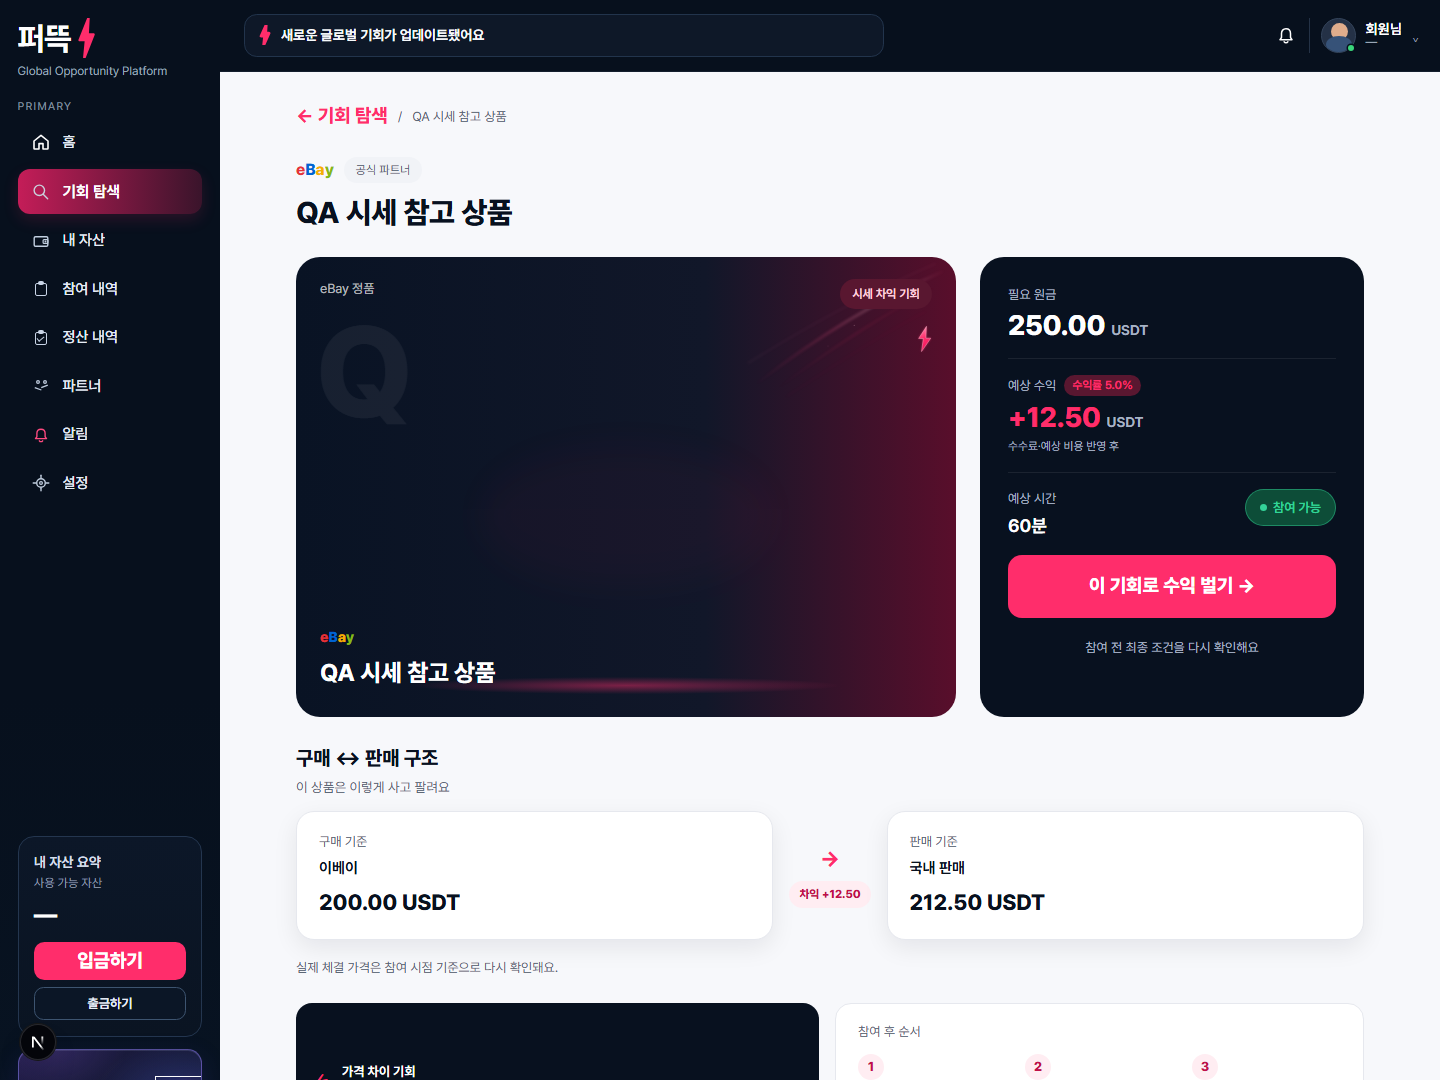
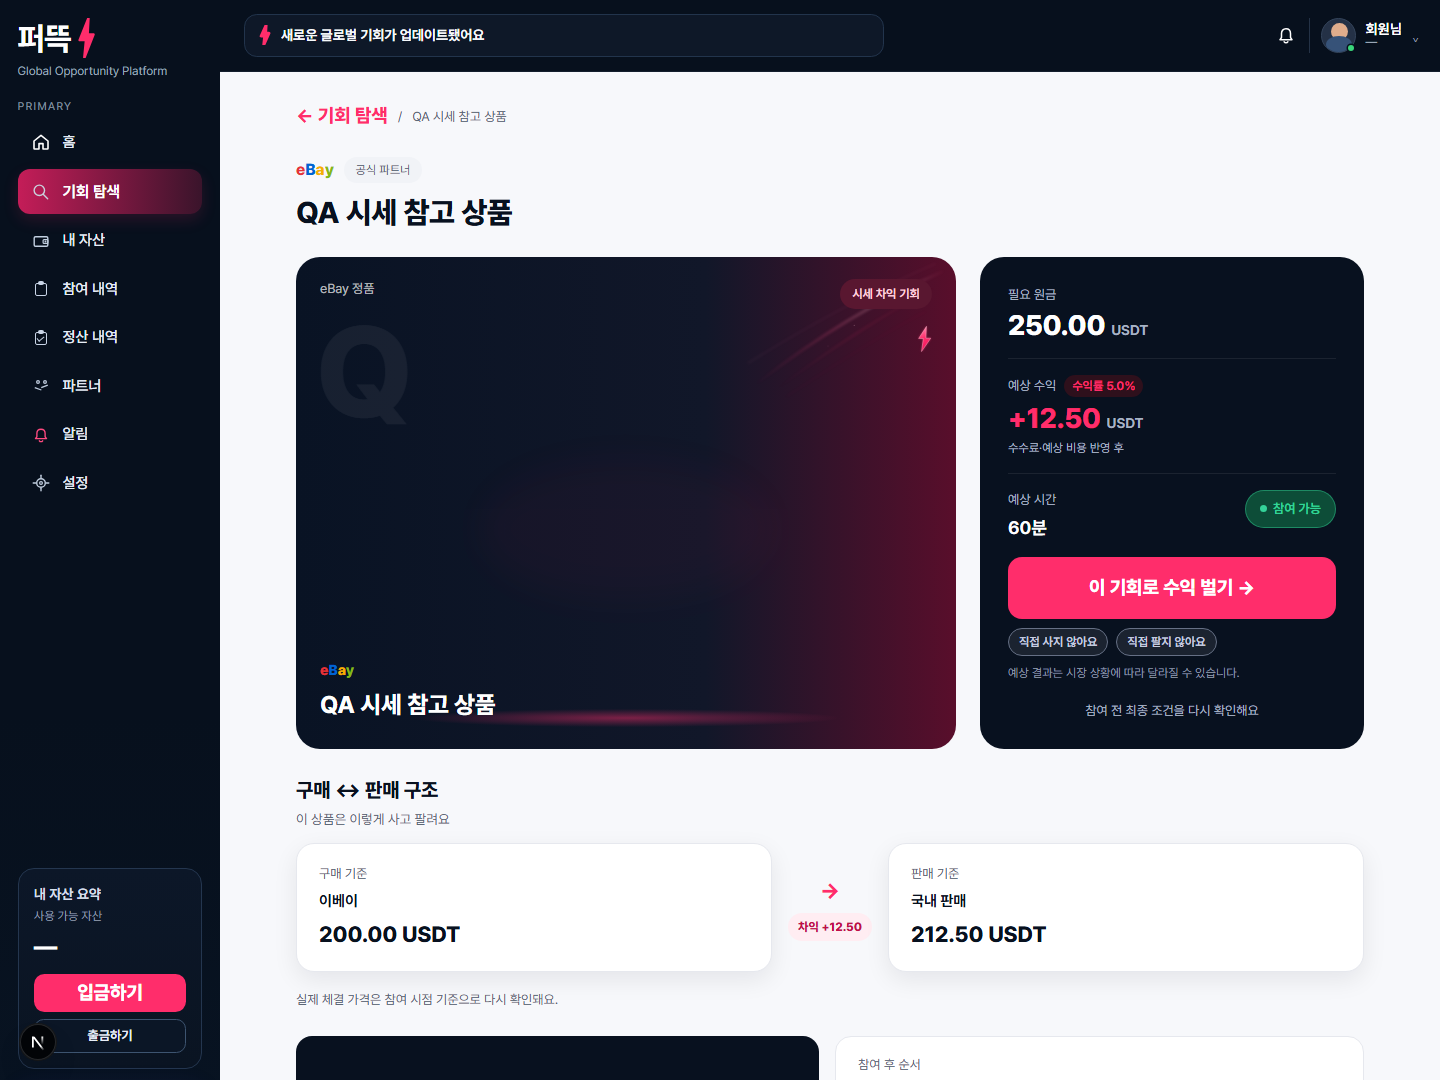
feat(ui): profits detail에 no-buy/no-sell 배지 + 결과 면책 문구 배선 (UI WARN 해소)
Canon wire(packages/ui/canon/surfaces/opportunity-detail.wire.json)가 이미
badgeNoBuy/badgeNoSell/disclaimer 3개 필드를 요구하고 있었고 copy도
packages/ui/copy/ko/execution.ts에 이미 존재했으나, 실제 라이브 컴포넌트
apps/web/app/profits/[id]/OpportunityDetailClient.tsx에는 배선이 빠져
있어 verify:cta-earn-profit이 WARN(tracked gap)으로 보고하던 항목.

변경: CTA 버튼(이 기회로 수익 벌기)이 보이는 조건(kind===ready &&
joinable) 블록 바로 아래에 배지 2개 + 면책 문구 1줄을 최소로 추가.
- apps/web/app/profits/[id]/OpportunityDetailClient.tsx: T.execution.
  badgeNoBuy/badgeNoSell/disclaimerResult 렌더링, desktop/mobile 공용
  ctaNodes() 함수 안이라 두 뷰포트 모두 자동 적용
- spark-dash-room.css/spark-dash-room-mobile.css: 기존 sdr-warn·sdr-err·
  sdrm-cta-warn 패턴과 동일한 최소 스타일만 추가 — 새 디자인 창작 0,
  기존 카드/버튼 레이아웃 무변경
- tooling/e2e/specs/opportunity-detail-closure.spec.cjs: desktop/mobile
  각각 배지 텍스트 + 면책 문구가 실제 렌더링되는지 확인하는 신규
  Playwright 테스트 2건 (기존 8건과 함께 10/10 PASS, 재확인 완료)
- 두 스크린샷(rel-107-room/runtime-ready-{1440,390}.png) 갱신 — 실제
  UI 변경을 반영하는 정당한 갱신(육안 확인 완료)

CRLF 참고: tooling/e2e/specs/opportunity-detail-closure.spec.cjs가 이
Windows 머신의 core.autocrlf 잔재로 로컬 디스크만 CRLF 오염되어 있었음을
발견(git blob은 LF, Phase A globals.css/SVG와 동일 클래스) — 이 파일
1개만 delete+checkout으로 canonical LF 재정규화 후 편집.

Verify: verify:cta-earn-profit PASS(WARN 완전 소멸) ·
opportunity-detail-live-wire.cjs PASS(Playwright 10/10, 1회 flaky
재현 시도 후 안정 재확인 — 실패 원인은 직전 verify:gate:fast 전체 실행
직후의 일시적 시스템 부하, 코드 변경과 무관) · web-lint PASS

diff --git a/apps/web/app/profits/[id]/OpportunityDetailClient.tsx b/apps/web/app/profits/[id]/OpportunityDetailClient.tsx
@@ -343,16 +343,35 @@ export function OpportunityDetailClient({
           </Link>
         ) : null}
         {kind === "ready" && joinable ? (
-          <button
-            type="button"
-            className={primaryClass}
-            data-requires-preflight="true"
-            disabled={busy}
-            onClick={() => void openConfirm()}
-          >
-            {CTA_DETAIL}
-            {isMobile ? null : " →"}
-          </button>
+          <>
+            <button
+              type="button"
+              className={primaryClass}
+              data-requires-preflight="true"
+              disabled={busy}
+              onClick={() => void openConfirm()}
+            >
+              {CTA_DETAIL}
+              {isMobile ? null : " →"}
+            </button>
+            <div
+              className={isMobile ? "sdrm-cta-badges" : "sdr-badges"}
+              data-testid="execution-no-buy-sell-badges"
+            >
+              <span className={isMobile ? "sdrm-cta-badge" : "sdr-badge"}>
+                {T.execution.badgeNoBuy}
+              </span>
+              <span className={isMobile ? "sdrm-cta-badge" : "sdr-badge"}>
+                {T.execution.badgeNoSell}
+              </span>
+            </div>
+            <p
+              className={isMobile ? "sdrm-cta-disclaimer" : "sdr-disclaimer"}
+              data-testid="execution-disclaimer-result"
+            >
+              {T.execution.disclaimerResult}
+            </p>
+          </>
         ) : null}
         {kind === "ready" && funding ? (
           <Link className={primaryClass} href="/wallet/deposit">

diff --git a/apps/web/components/spark-dash-room/spark-dash-room-mobile.css b/apps/web/components/spark-dash-room/spark-dash-room-mobile.css
@@ -606,6 +606,33 @@
   color: #ff8aa0;
 }
 
+.sdrm-cta-badges {
+  display: flex;
+  justify-content: center;
+  gap: 6px;
+  flex-wrap: wrap;
+}
+
+.sdrm-cta-badge {
+  display: inline-flex;
+  align-items: center;
+  padding: 3px 10px;
+  border-radius: 999px;
+  background: rgba(255, 255, 255, 0.08);
+  border: 1px solid #667085;
+  color: #c7cee0;
+  font-size: 11px;
+  font-weight: 600;
+}
+
+.sdrm-cta-disclaimer {
+  margin: 0;
+  text-align: center;
+  font-size: 11px;
+  line-height: 1.4;
+  color: #8b95a7;
+}
+
 .sdrm-cta-actions {
   display: flex;
   flex-direction: column;

diff --git a/apps/web/components/spark-dash-room/spark-dash-room.css b/apps/web/components/spark-dash-room/spark-dash-room.css
@@ -370,6 +370,31 @@
 .sdr-warn { color: #f3c77a; }
 .sdr-err { color: #ff8aa0; }
 
+.sdr-badges {
+  display: flex;
+  gap: 0.5rem;
+  flex-wrap: wrap;
+}
+
+.sdr-badge {
+  display: inline-flex;
+  align-items: center;
+  padding: 0.25rem 0.625rem;
+  border-radius: 999px;
+  background: rgba(255, 255, 255, 0.08);
+  border: 1px solid #667085;
+  color: #c7cee0;
+  font-size: 0.75rem;
+  font-weight: 600;
+}
+
+.sdr-disclaimer {
+  margin: 0;
+  font-size: 0.75rem;
+  line-height: 1.4;
+  color: #8b95a7;
+}
+
 .sdr-actions {
   display: grid;
   gap: 0.55rem;
